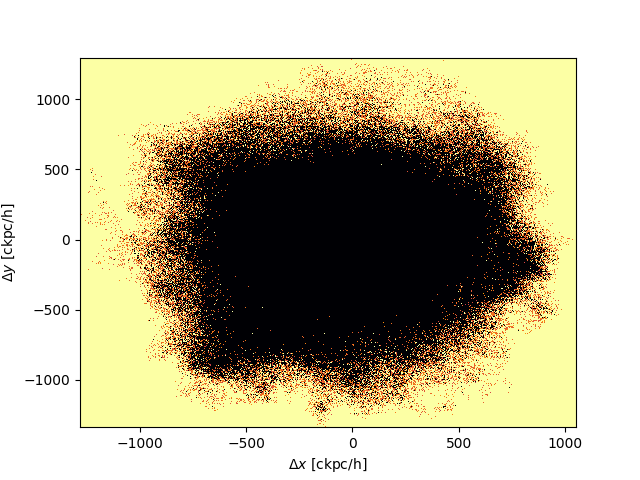
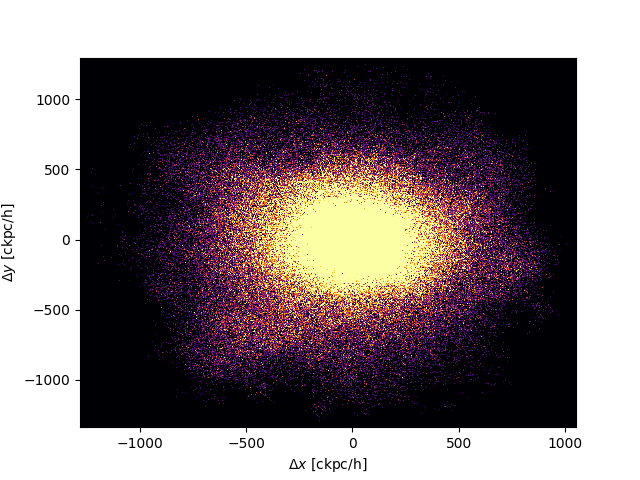
safe

diff --git a/Week_2/cut4.py b/Week_2/cut4.py
@@ -42,7 +42,7 @@ with h5py.File("/Users/benedictcallander/Desktop/MPhys/MPhys-Project/Week_2/cut.
     dens =(f['PartType0']['Masses'][:])
 lim = 750
 plt.figure()
-plt.hist2d(x,y,weights=dens,bins=[50000,10000], cmap = 'inferno', vmin = min(dens), vmax = max(dens))
+plt.hist2d(x,y,weights=dens,bins=[5000,5000], cmap = 'inferno', vmin = min(dens), vmax = max(dens))
 plt.xlabel('$\Delta x$ [ckpc/h]')
 plt.ylabel('$\Delta y$ [ckpc/h]')
 #plt.xlim(-lim,lim)
